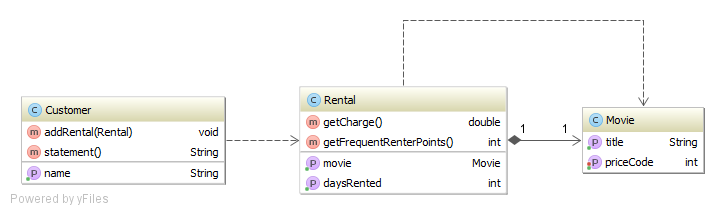
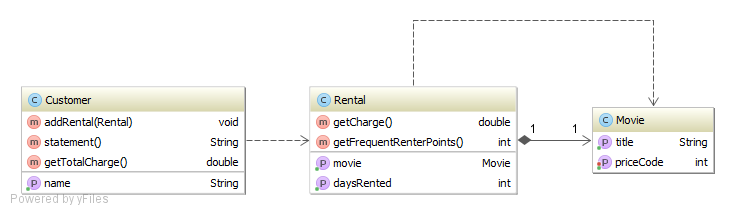
Step 4.1: Extract method Customer.getTotalCharge().

diff --git a/src/Customer.java b/src/Customer.java
@@ -18,26 +18,31 @@ class Customer {
     }
 
     public String statement() {
-        double totalAmount = 0;
         int frequentRenterPoints = 0;
         Enumeration enum_rentals = rentals.elements();
         String result = "Rental Record for " + this.getName() + "\n";
         result += "\t" + "Title" + "\t" + "\t" + "Days" + "\t" + "Amount" + "\n";
 
         while (enum_rentals.hasMoreElements()) {
-            double thisAmount = 0;
             Rental each = (Rental) enum_rentals.nextElement();
-            //determine amounts for each line
-            thisAmount = each.getCharge();
             // add frequent renter points
             frequentRenterPoints += each.getFrequentRenterPoints();
             //show figures for this rental
-            result += "\t" + each.getMovie().getTitle() + "\t" + "\t" + each.getDaysRented() + "\t" + String.valueOf(thisAmount) + "\n";
-            totalAmount += thisAmount;
+            result += "\t" + each.getMovie().getTitle() + "\t" + "\t" + each.getDaysRented() + "\t" + String.valueOf(each.getCharge()) + "\n";
         }
         //add footer lines
-        result += "Amount owed is " + String.valueOf(totalAmount) + "\n";
+        result += "Amount owed is " + String.valueOf(getTotalCharge()) + "\n";
         result += "You earned " + String.valueOf(frequentRenterPoints) + " frequent renter points";
+        return result;
+    }
+
+    private double getTotalCharge() {
+        double result = 0;
+        Enumeration rentals = this.rentals.elements();
+        while(rentals.hasMoreElements()) {
+            Rental rental = (Rental) rentals.nextElement();
+            result += rental.getCharge();
+        }
         return result;
     }
 }
